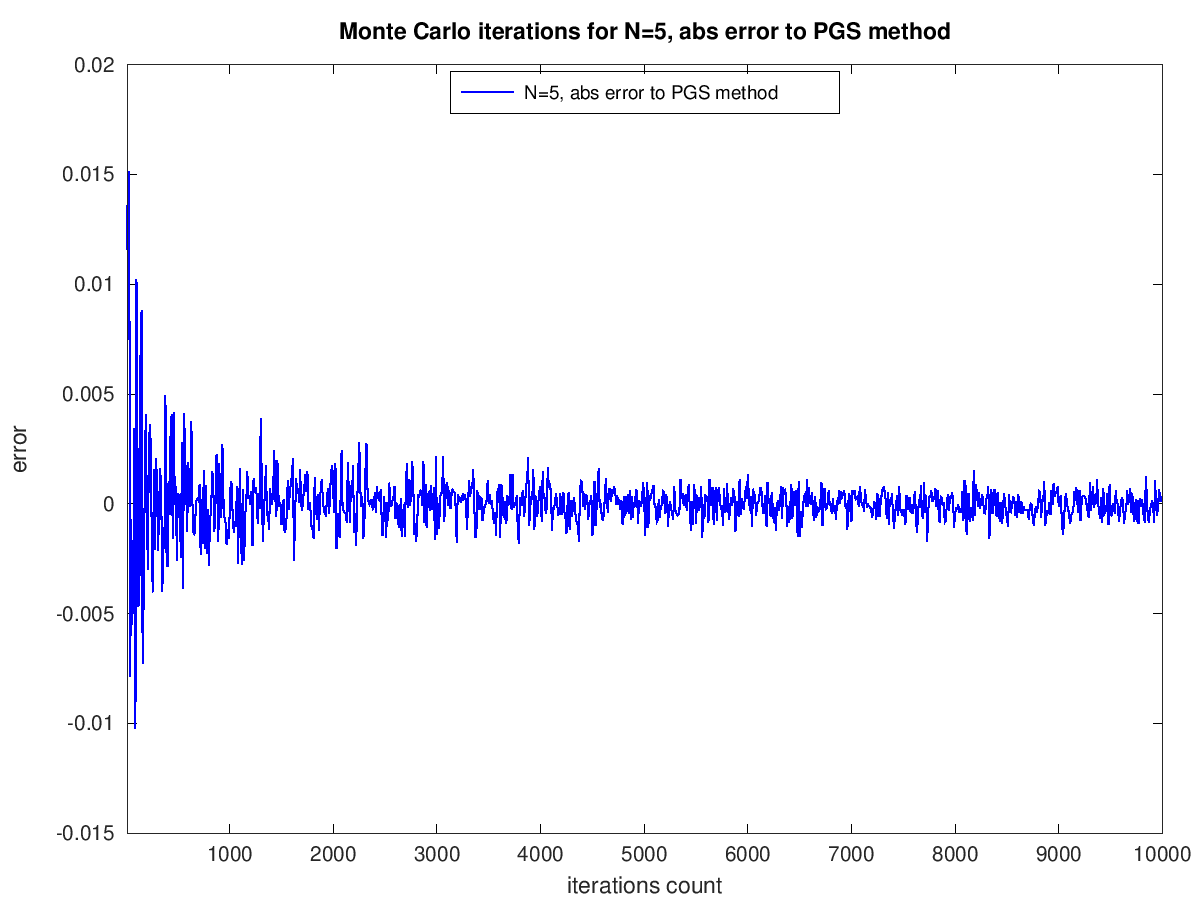
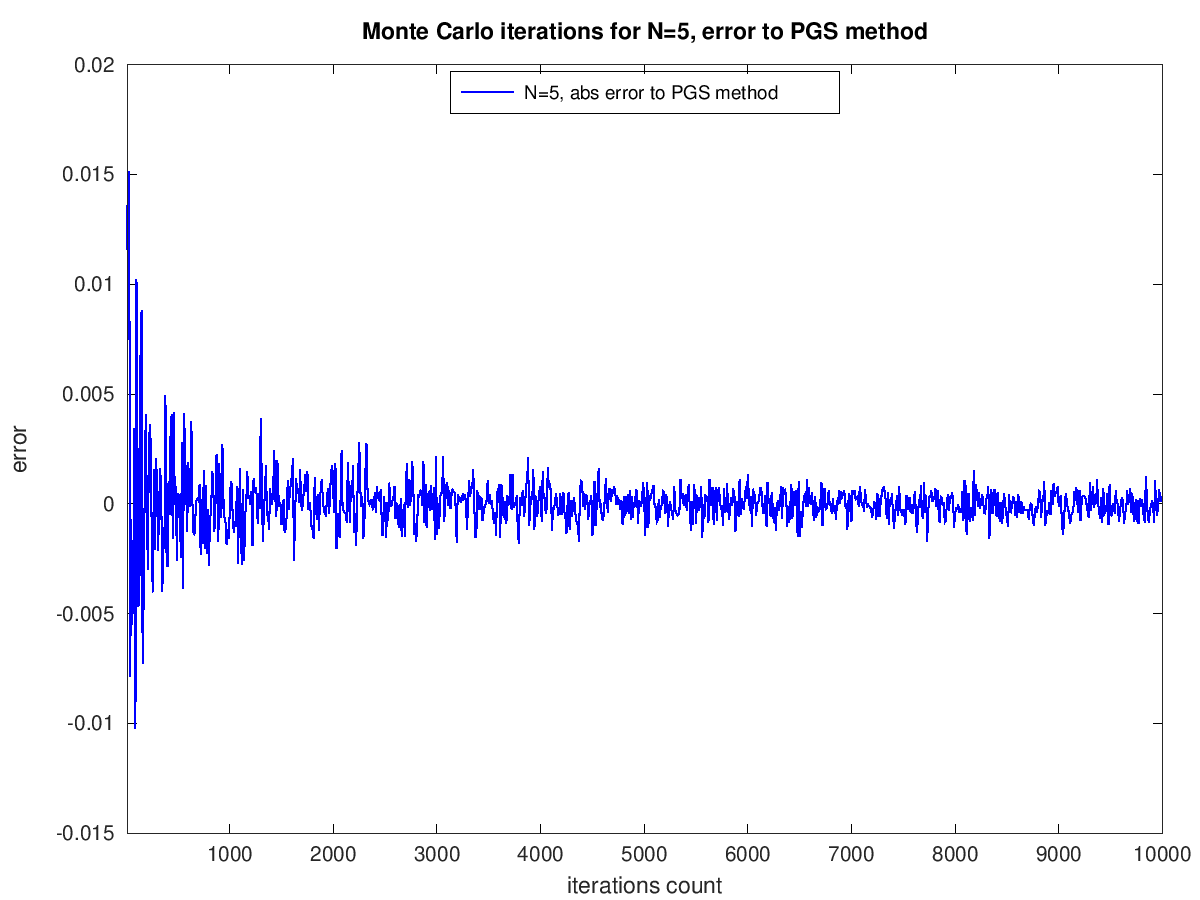
small fix

Changed region(s): [[0.2775, 0.0, 0.8017, 0.0622]]

diff --git a/03-population_protocols/src/scripts/00_plots_with_octave.m b/03-population_protocols/src/scripts/00_plots_with_octave.m
@@ -129,7 +129,7 @@ plot(iteration_count, abs_results, "linewidth", 2, "b");
 xlim([10 10000]);
 ylabel ("error");
 xlabel ("iterations count");
-title  ("Monte Carlo iterations for N=5, abs error to PGS method");
+title  ("Monte Carlo iterations for N=5, error to PGS method");
 legend ("N=5, abs error to PGS method", "location","north");
 
 print -dpng ../../report/plots/08_abs_gauss_and_montecarlo_iterations_rows.png;
